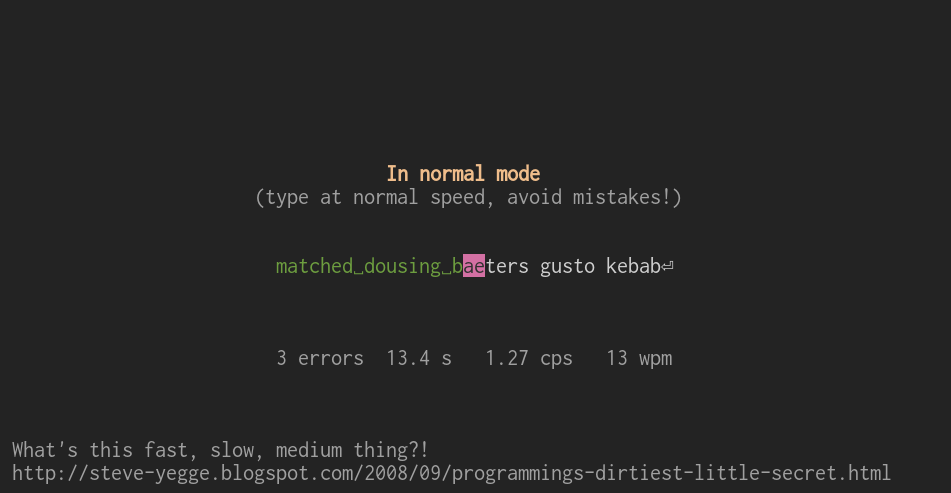
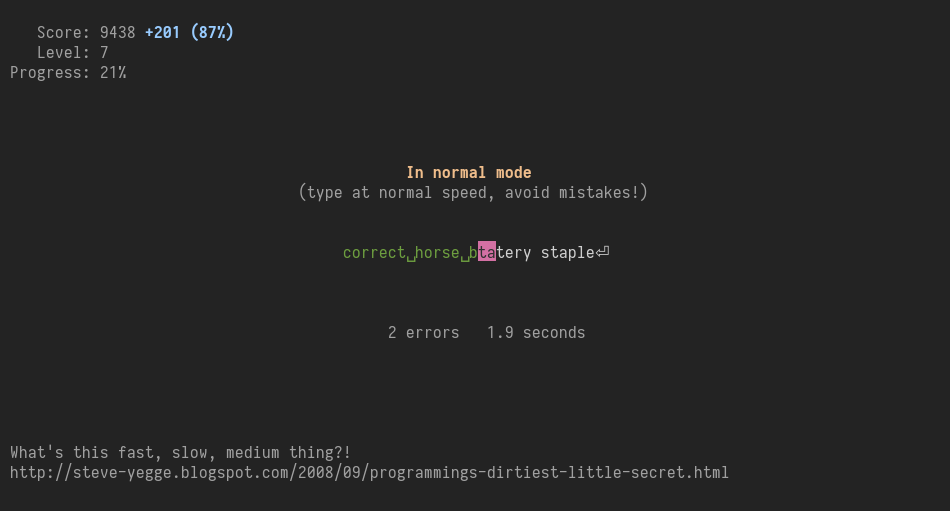
Update screenshot and add screenshot mode

diff --git a/demo.go b/demo.go
@@ -1,0 +1,35 @@
+package main
+
+import (
+	"time"
+
+	"github.com/nsf/termbox-go"
+)
+
+func run_demo() {
+	err := termbox.Init()
+	if err != nil {
+		panic(err)
+	}
+	defer termbox.Close()
+
+	state := *NewState(
+		0, []string{"correct", "horse", "battery", "staple"}, true)
+	now := time.Now()
+
+	state.Score = 9438
+	state.LastScoreUntil = now.Add(1 * time.Second)
+	state.LastScore = 201
+	state.LastScorePercent = 0.87
+	state.Phrase.Mode = ModeNormal
+	state.Phrase.CurrentRound().Errors = 2
+	state.Phrase.CurrentRound().StartedAt = now.Add(-1941 * time.Millisecond)
+	state.Phrase.Input = "correct horse bta"
+
+	for {
+		render(state, now)
+		if ev := termbox.PollEvent(); ev.Type == termbox.EventKey {
+			return
+		}
+	}
+}

diff --git a/main.go b/main.go
@@ -34,9 +34,14 @@ func loop(words []string, staticPhrase bool) bool {
 }
 
 func main() {
-	var wordFile = flag.String(
-		"w", "/usr/share/dict/words", "path to word list")
+	wordFile := flag.String("w", "/usr/share/dict/words", "path to word list")
+	demo := flag.Bool("d", false, "demo mode for screenshot")
 	flag.Parse()
+
+	if *demo {
+		run_demo()
+		return
+	}
 
 	err := termbox.Init()
 	if err != nil {

diff --git a/README.md b/README.md
@@ -1,16 +1,17 @@
 # Gotypist
 
-![Screenshot of a Gotypist session, normal mode](screenshot.png)
-
 A simple touch-typing tutor that follows [Steve Yegge's methodology](http://steve-yegge.blogspot.com/2008/09/programmings-dirtiest-little-secret.html) of going in fast, slow, and medium cycles.
+
+![Screenshot of a Gotypist session, normal mode](screenshot.png)
 
 This project is mainly motivated by trying out [termbox-go](https://github.com/nsf/termbox-go), but it is definitely ready for productive learning.
 
 ## Usage
 
-    gotypist [-w FILE] [WORD]...
+    gotypist [-w FILE] [-s] [WORD]...
 
     -w FILE     Use this file as word list instead of /usr/share/dict/words
+    -s          Run in demo mode to take a screenshot
     WORD...     Explicitly specify a phrase
 
 ## Key bindings
